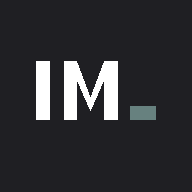
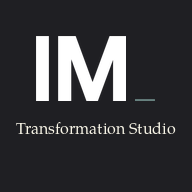
Add files via upload

Changed region(s): [[0.0625, 0.1875, 0.9375, 0.7188]]

diff --git a/index.html b/index.html
@@ -7,7 +7,7 @@
 <meta name="apple-mobile-web-app-capable" content="yes" />
 <meta name="mobile-web-app-capable" content="yes" />
 <meta name="apple-mobile-web-app-status-bar-style" content="black-translucent" />
-<meta name="apple-mobile-web-app-title" content="Implement" />
+<meta name="apple-mobile-web-app-title" content="Transformation Studio" />
 <meta name="theme-color" content="#1F1F23" />
 <link rel="manifest" href="manifest.json" />
 <link rel="apple-touch-icon" sizes="192x192" href="icon-192.png" />
@@ -34,7 +34,12 @@
     --font-body: Arial, Helvetica, sans-serif;
   }
 
-  * { box-sizing: border-box; }
+  * { box-sizing: border-box; -webkit-tap-highlight-color: transparent; }
+  html, body, .app {
+    touch-action: manipulation;
+    -webkit-user-select: none; user-select: none;
+    -webkit-touch-callout: none;
+  }
   /* Full-screen behaviour on iPad when launched from the Home Screen */
   html { height: 100%; }
   body { overscroll-behavior: none; }
@@ -75,12 +80,13 @@
   }
   .stepper .step.active { color: var(--im-blue-green); border-bottom-color: var(--im-blue-green); font-weight: 700; }
   .stepper .step.done { color: var(--im-ash); }
+  .stepper .step .tick { color: var(--im-blue-green); margin-right: 0.3rem; font-weight: 700; }
 
   main.layout { flex: 1; display: flex; min-height: 0; }
   @media (max-width: 880px) { main.layout { flex-direction: column; } }
 
   .visual-panel {
-    flex: 1.5; background: var(--im-white); position: relative;
+    flex: 1.22; background: var(--im-white); position: relative;
     display: flex; flex-direction: column; min-height: 0;
     border-right: 1px solid var(--im-blue-green-light);
   }
@@ -367,15 +373,6 @@
   .btn-secondary:disabled { opacity: 0.3; cursor: not-allowed; }
   .btn:active:not(:disabled) { transform: scale(0.97); }
 
-  .build-rail {
-    flex-shrink: 0; display: flex; align-items: center; gap: 0.5rem;
-    padding: 0.45rem 1.25rem; background: var(--im-ash); overflow-x: auto; min-height: 2.3rem;
-  }
-  .build-rail .rail-label { font-size: 0.66rem; color: var(--im-grey); text-transform: uppercase; letter-spacing: 0.06em; flex-shrink: 0; }
-  .rail-chip { background: var(--im-blue-green); color: white; font-size: 0.66rem; font-weight: 700; padding: 0.22rem 0.55rem; border-radius: 2px; white-space: nowrap; flex-shrink: 0; }
-  .rail-chip.dim { background: transparent; border: 1px solid var(--im-blue-green-60); color: var(--im-green-grey); }
-  .rail-empty { color: var(--im-grey); font-size: 0.7rem; font-style: italic; }
-
   .attract {
     position: absolute; inset: 0; background: var(--im-black);
     display: flex; flex-direction: column; align-items: center; justify-content: center;
@@ -392,6 +389,100 @@
   }
   .attract .tap { margin-top: 2.5rem; font-size: 0.8rem; color: var(--im-green-grey); text-transform: uppercase; letter-spacing: 0.1em; animation: pulse 1.8s infinite ease-in-out; }
   @keyframes pulse { 0%,100% { opacity: 0.4; } 50% { opacity: 1; } }
+
+
+  /* =====================================================================
+     iPad Pro (landscape) — comfortable native-app sizing, ≥44pt targets
+     ===================================================================== */
+  @media (min-width: 1024px) {
+    header.top { padding: 1rem 2.2rem; }
+    header.top .logo { font-size: 1.2rem; }
+    header.top .headline { font-size: 1.3rem; }
+
+    .stepper .step { padding: 0.9rem 0.6rem; font-size: 0.8rem; }
+
+    .stage-plate { font-size: 0.8rem; top: 1rem; left: 1.6rem; }
+    .spec-cell { padding: 0.75rem 1.1rem 0.8rem; min-width: 120px; }
+    .spec-cell .k { font-size: 0.62rem; }
+    .spec-cell .v { font-size: 0.86rem; }
+
+    .config-body { padding: 1.6rem 1.9rem 1.2rem; }
+    .config-panel h2 { font-size: 1.8rem; }
+    .config-panel .sub { font-size: 0.98rem; margin-bottom: 0.8rem; }
+    .explain { font-size: 0.84rem; padding: 0.7rem 0.95rem; margin-bottom: 1.2rem; }
+
+    /* Ambition cards */
+    .proj { padding: 1rem 1.1rem; min-height: 92px; }
+    .proj .name { font-size: 1rem; }
+    .proj .desc { font-size: 0.82rem; margin-top: 0.25rem; }
+    .proj .body-tag { font-size: 0.68rem; margin-top: 0.45rem; }
+
+    /* Expertise tiles: two columns, bigger targets */
+    .tile-grid { grid-template-columns: repeat(2, 1fr); gap: 0.6rem; }
+    .tile { padding: 0.95rem 3rem 0.95rem 1rem; min-height: 88px; }
+    .tile .pname { font-size: 0.98rem; }
+    .tile .desc { font-size: 0.82rem; }
+    .tile .ord { font-size: 0.68rem; padding: 0.12rem 0.42rem; }
+    .tile .sug { font-size: 0.6rem; }
+    .tile .info-btn { width: 40px; height: 40px; font-size: 0.95rem; top: 8px; right: 8px; }
+    .tile .info-panel { font-size: 0.82rem; }
+    .band-head .b-label { font-size: 0.76rem; }
+    .band-head .b-note { font-size: 0.76rem; }
+
+    /* Powertrain */
+    .engine-summary { padding: 1rem 1.2rem; }
+    .engine-summary .out { font-size: 2.3rem; }
+    .engine-summary .out small { font-size: 0.76rem; }
+    .engine-summary .cfg { font-size: 0.88rem; }
+    .role-row { padding: 0.85rem 1rem; }
+    .role-row .info .name { font-size: 0.98rem; }
+    .role-row .info .meta { font-size: 0.8rem; }
+    .role-row .hp-each { font-size: 1.1rem; width: 4rem; }
+    .step-ctrl { gap: 0.55rem; }
+    .step-ctrl button { width: 50px; height: 50px; font-size: 1.4rem; }
+    .step-ctrl .cnt { width: 1.9rem; font-size: 1.15rem; }
+
+    /* Packages */
+    .pkg-card { padding: 1rem 1.15rem; min-height: 84px; }
+    .pkg-card .chk { width: 26px; height: 26px; margin-top: 3px; }
+    .pkg-card.selected .chk::after { width: 11px; height: 7px; border-left-width: 2.5px; border-bottom-width: 2.5px; }
+    .pkg-card .txt .name { font-size: 1rem; }
+    .pkg-card .txt .desc { font-size: 0.84rem; }
+    .pkg-card .txt .fit { font-size: 0.7rem; }
+    .mfk { font-size: 0.62rem; padding: 0.26rem 0.6rem; top: 10px; right: 10px; }
+
+    /* Window sticker */
+    .st-head { padding: 1rem 1.2rem 1.1rem; }
+    .st-brand { font-size: 0.66rem; }
+    .st-model { font-size: 1.75rem; }
+    .st-sub { font-size: 0.8rem; }
+    .st-sec { padding: 0.85rem 1.2rem; }
+    .st-sec-t { font-size: 0.62rem; }
+    .st-line { font-size: 0.88rem; padding: 0.2rem 0; }
+    .st-narrative { font-size: 0.88rem; }
+    .st-foot { padding: 1rem 1.2rem; }
+    .st-foot-t { font-size: 1.1rem; }
+    .st-foot-p { font-size: 0.8rem; }
+    .c-name { font-size: 0.9rem; }
+    .c-mail { font-size: 0.82rem; }
+    #qrcode img, #qrcode canvas { width: 110px !important; height: 110px !important; }
+    .qr-hint { font-size: 0.66rem; max-width: 8rem; }
+
+    /* Footer nav — thumb-sized bars, Next gets the weight */
+    .config-footer { padding: 1rem 1.9rem; gap: 0.8rem; }
+    .btn { font-size: 0.86rem; padding: 0 1.6rem; min-height: 54px; display: inline-flex; align-items: center; justify-content: center; }
+    #nextBtn { flex: 1; max-width: 48%; }
+
+    /* Attract screen — readable from across the aisle */
+    .attract .a-logo { font-size: 1.25rem; margin-bottom: 2.4rem; }
+    .attract h1 { font-size: 3.6rem; }
+    .attract .a-vibe { font-size: 0.85rem; margin-top: 1.1rem; }
+    .attract .tap { font-size: 1rem; margin-top: 3rem; padding: 0.9rem 2rem; border: 1px solid var(--im-blue-green-60); border-radius: 2px; }
+
+    /* Staff panel */
+    .staff .panel { width: min(380px, 70vw); padding: 1.8rem; }
+    .staff .panel .btn { min-height: 54px; }
+  }
 
   #printArea { display: none; }
   @page { size: A4; margin: 10mm; }
@@ -446,8 +537,6 @@
     </section>
   </main>
 
-  <div class="build-rail" id="buildRail"></div>
-
   <div class="attract" id="attract">
     <div class="a-logo">IMPLEMENT CONSULTING GROUP<span>_</span></div>
     <h1>Build your <em>Implement</em> project.</h1>
@@ -484,7 +573,7 @@ const PROJECTS = [
     suggest:['Operations','Resilience','Digital'] },
   { id:'orgchange', name:'Rebuild how we work',     model:'SUV',                 desc:'Change the structure, roles and ways of working across the organisation.',
     suggest:['Transformation','People','Communication','Leadership'] },
-  { id:'pmi',       name:'Bring two together',      model:'Stretched Executive', desc:'Merge two organisations into one after a deal.',
+  { id:'pmi',       name:'Bring two together (PMI)', model:'Stretched Executive', desc:'Post-merger integration: merge two organisations into one after a deal.',
     suggest:['Transformation','Finance','Communication','People'] },
   { id:'digital',   name:'Put technology to work',  model:'Aero Sedan',          desc:'Make the business run on better technology and AI.',
     suggest:['Digital','Transformation','People'] },
@@ -687,7 +776,8 @@ function renderStepper() {
     let cls = 'step';
     if (i === state.stepIndex) cls += ' active';
     else if (i < state.stepIndex) cls += ' done';
-    return `<div class="${cls}" data-step="${i}">${STEP_LABELS[s]}</div>`;
+    const done = i < state.stepIndex;
+    return `<div class="${cls}" data-step="${i}">${done ? '<span class="tick">✓</span>' : ''}${STEP_LABELS[s]}</div>`;
   }).join('');
   [...el.children].forEach(child => {
     child.addEventListener('click', () => {
@@ -1427,25 +1517,6 @@ function renderSpecStrip() {
   `).join('');
 }
 
-/* ================= BUILD RAIL ================= */
-function renderBuildRail() {
-  const el = document.getElementById('buildRail');
-  const chips = [];
-  const proj = currentProject();
-  if (proj) chips.push({t: proj.model});
-  state.practices.forEach(id => chips.push({t:id}));
-  const people = totalPeople();
-  if (people) chips.push({t: totalHp() + ' hp · ' + motorLabel(people)});
-  state.packages.forEach(id => chips.push({t: PACKAGES.find(p=>p.id===id).tag, dim:true}));
-
-  el.innerHTML = `
-    <span class="rail-label">Your build so far</span>
-    ${chips.length
-      ? chips.map(c => `<span class="rail-chip ${c.dim?'dim':''}">${c.t}</span>`).join('')
-      : '<span class="rail-empty">Nothing selected yet</span>'}
-  `;
-}
-
 /* ================= NAV ================= */
 function canProceedFrom(stepIdx) {
   const step = STEPS[stepIdx];
@@ -1510,7 +1581,6 @@ function renderAll() {
   renderConfigBody();
   updateStage();
   renderSpecStrip();
-  renderBuildRail();
   renderFooter();
   resetIdle();
 }
